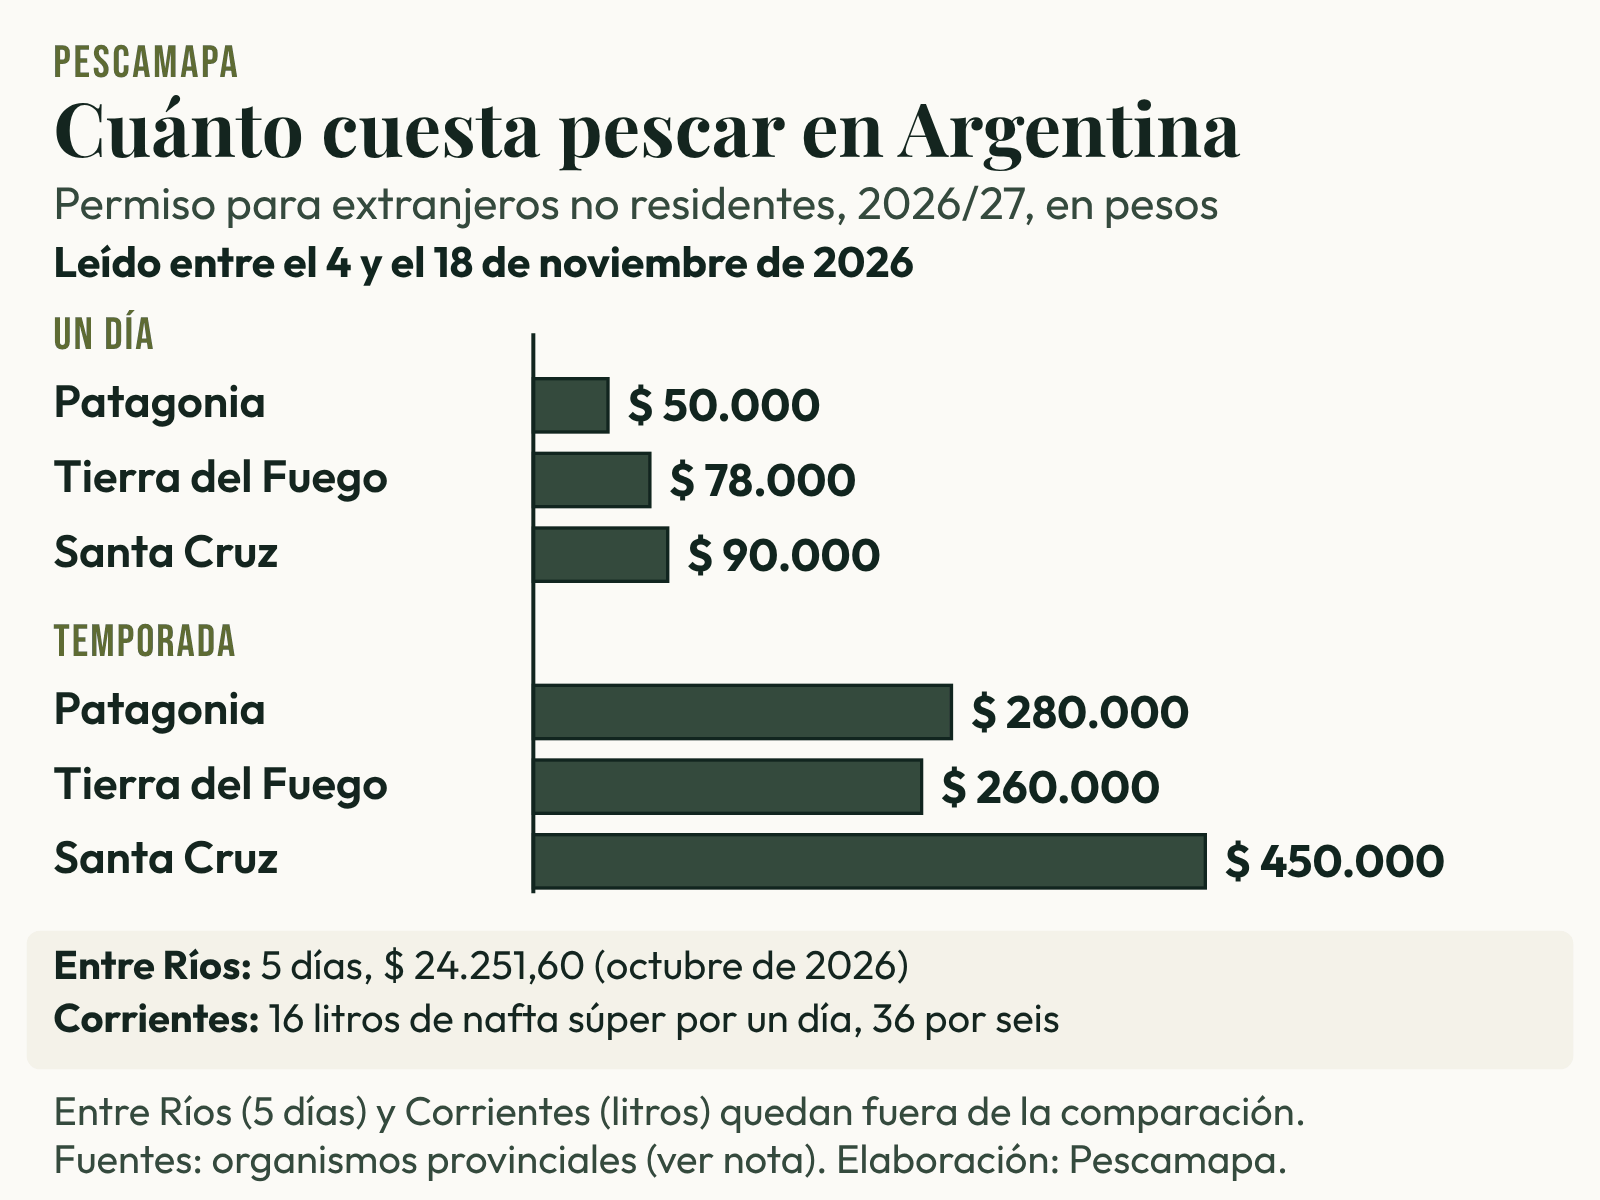
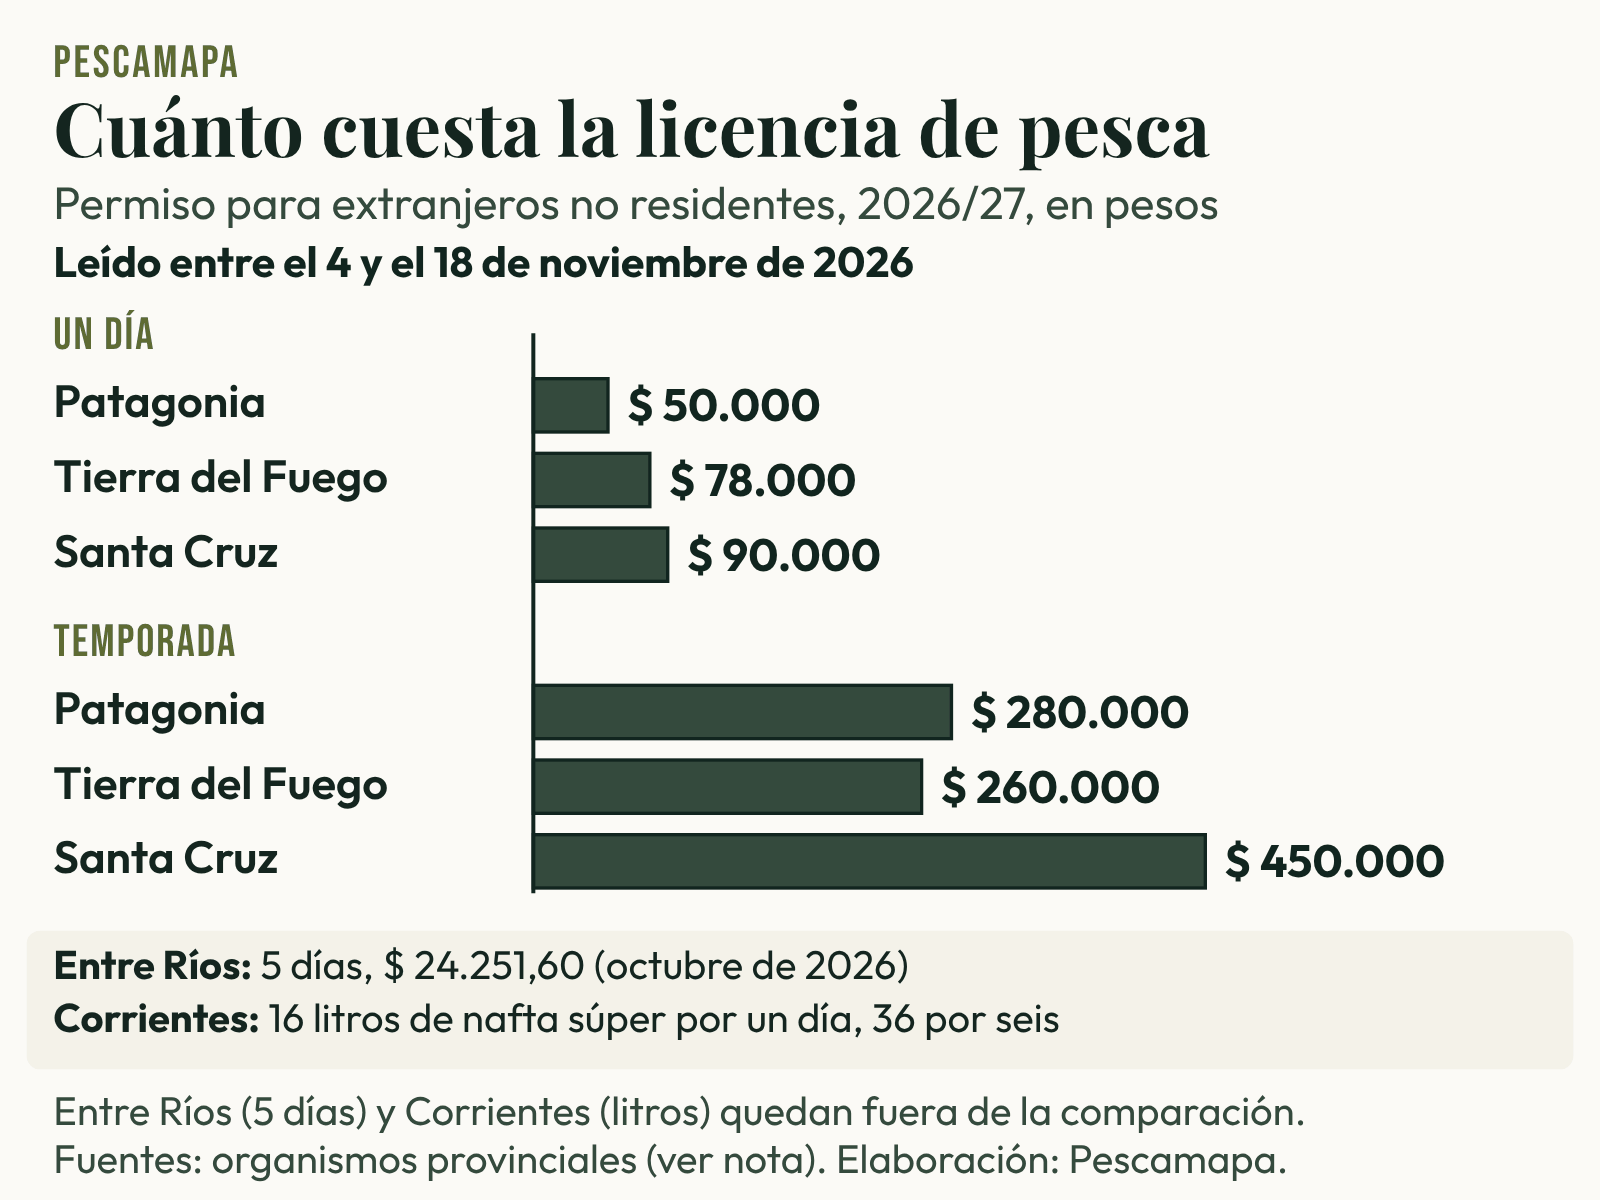
Infografía de licencias: el título dice «la licencia de pesca»
Claude-Session: https://claude.ai/code/session_01UkFsmdQQ3wRhvvG6gsFpxK

Changed region(s): [[0.3438, 0.0925, 0.7812, 0.1542]]

diff --git a/wordpress/build/licencias-2026-27/graficos.py b/wordpress/build/licencias-2026-27/graficos.py
@@ -61,7 +61,7 @@ def grafico_precios():
     ct1 = fila("Corrientes", "extranjero (domicilio fuera de la Argentina)", "1 día", "Licencia de turista extranjero")
     ct6 = fila("Corrientes", "extranjero (domicilio fuera de la Argentina)", "6 días", "Licencia de turista extranjero")
     fechas = sorted({r["consultada"] for _, r in dia + temp} | {er["consultada"]})
-    titulo = "Cuánto cuesta pescar en Argentina"
+    titulo = "Cuánto cuesta la licencia de pesca"
     sub = "Permiso para extranjeros no residentes, 2026/27, en pesos"
     linea = f"Leído entre el {fechas[0][8:10].lstrip('0')} y el {fechas[-1][8:10].lstrip('0')} de noviembre de 2026"
     desc = ("Barras con el valor del permiso de un extranjero no residente en pesos argentinos. Un día: " + "; ".join(f"{n} {peso(r['valor'])}" for n, r in dia)
